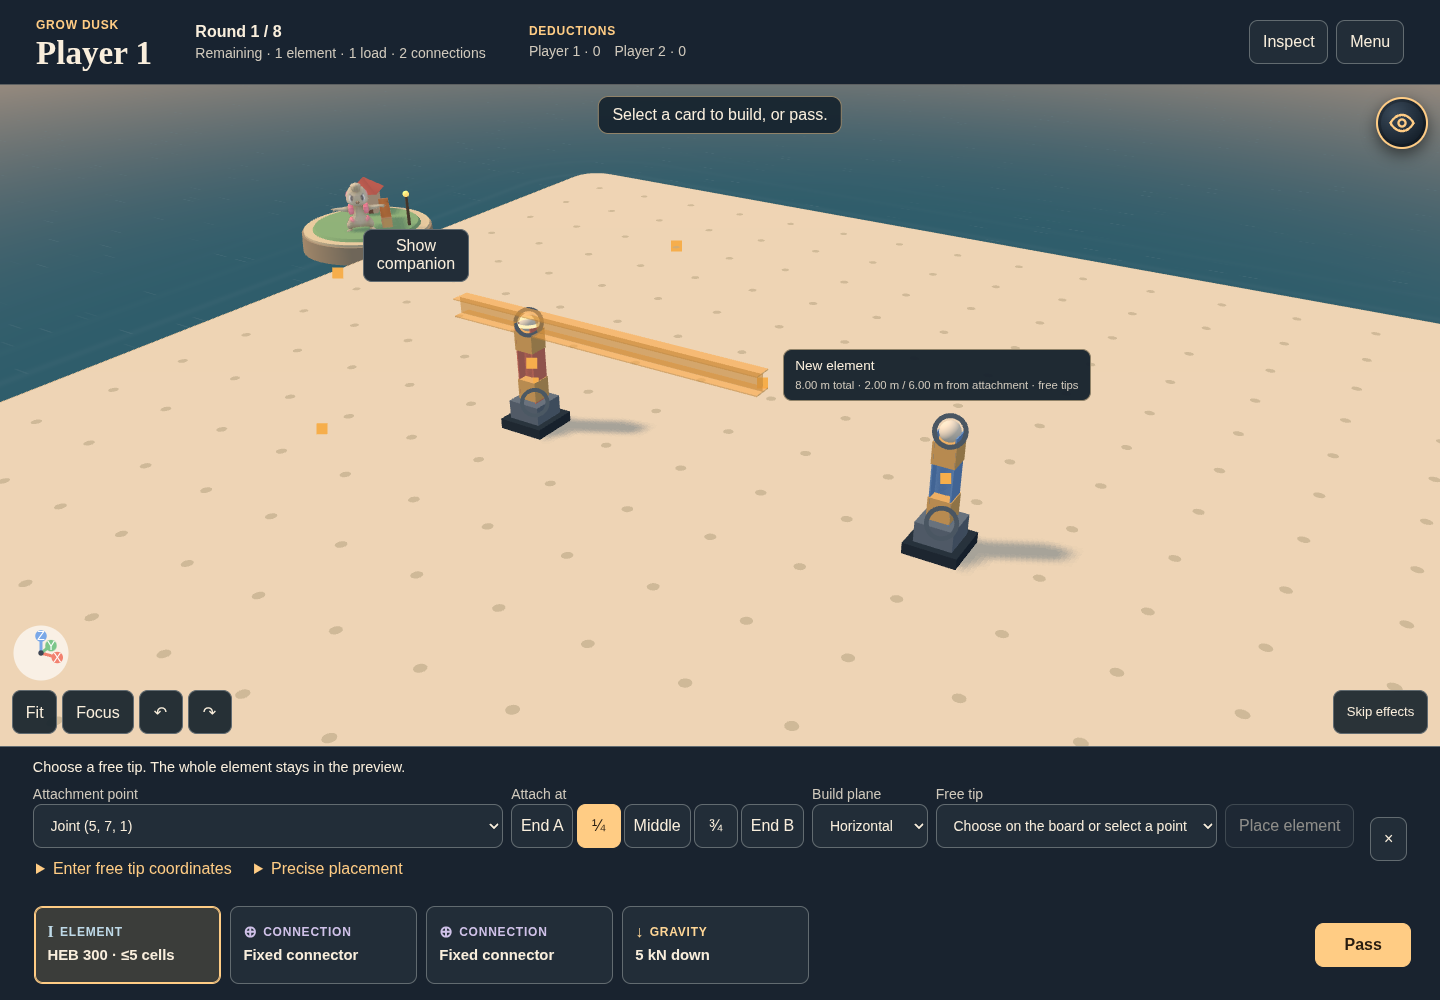
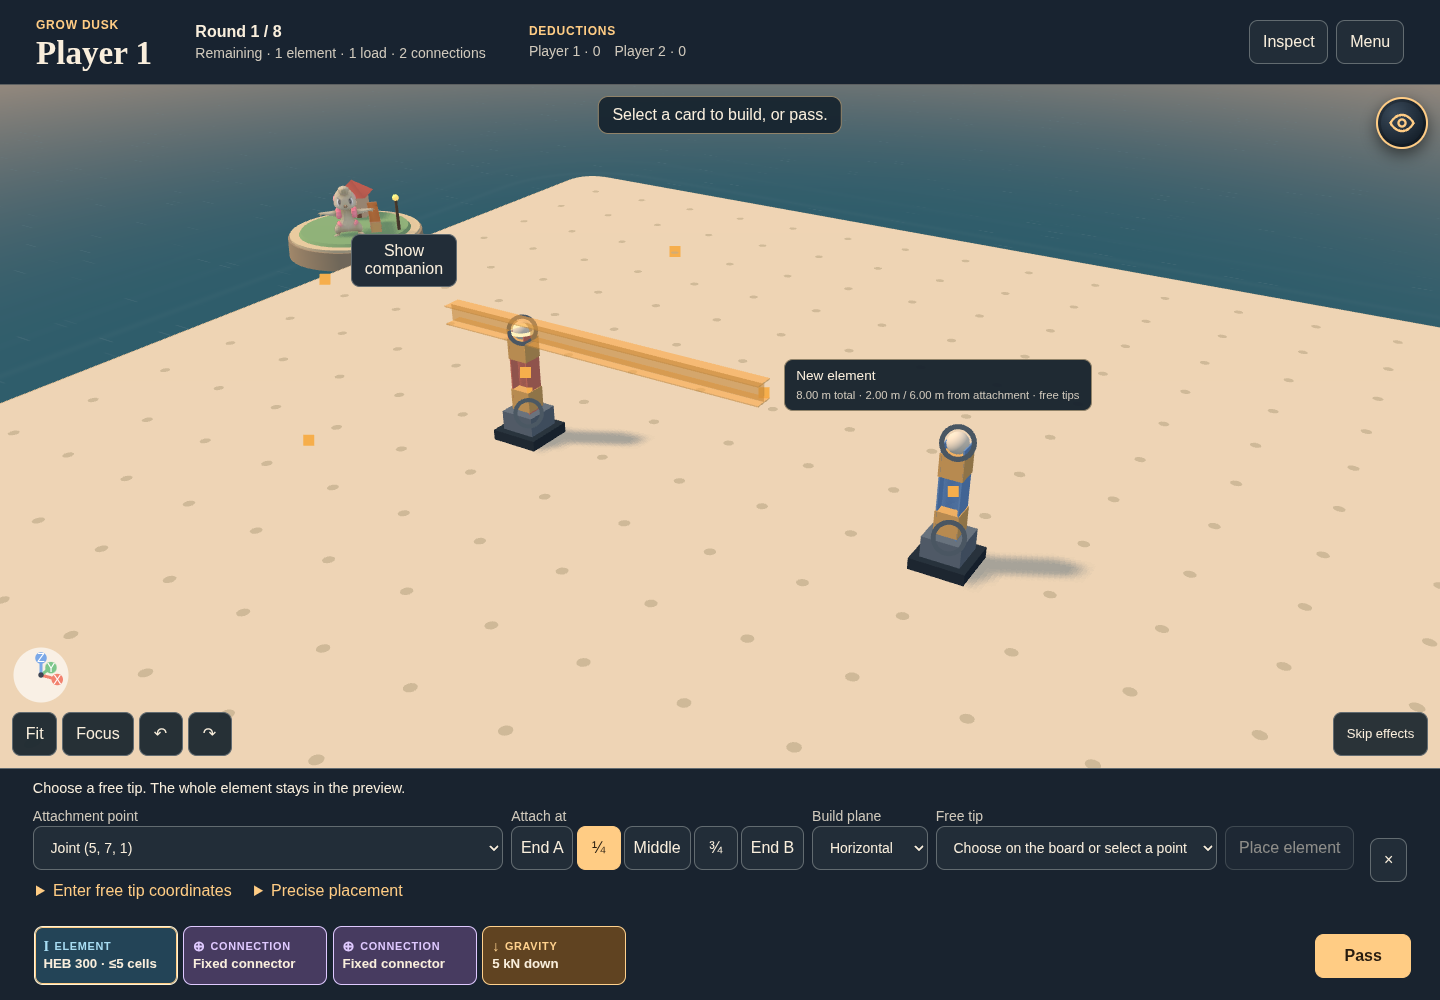
Refresh final main cantilever validation after concurrent updates

diff --git a/docs/evidence/cantilevers/README.md b/docs/evidence/cantilevers/README.md
@@ -1,6 +1,6 @@
 # Fixed interior frame collar evidence
 
-Validated on 2026-11-15 against the integrated source tree recorded on local main at `149efc42dc9e93aead77c2100ddf0e421905662b`. Feature integration `458104c4c0000051467f60a441a0e8234b0d2d6d` combines cantilever feature `fca92ab` with main `cca5702`, preserving the newer Rust-backed evaluator, solver module, companion and View modes. This record identifies local source validation; it does not report a remote push.
+Validated on 2026-11-15 against the final integrated source tree on local main at `6c8b1eab891c41fc9ed26665a085afe25c1367d5`. This retains feature integration `458104c4c0000051467f60a441a0e8234b0d2d6d` and concurrent main `533e1af04ba66d5f80076a184bf4fb05fb915d2f`, preserving the Rust-backed evaluator, solver module, companion, View modes and compact coloured cards. This record identifies local source validation; it does not report a remote push.
 
 Current capacity code/tests live in `evaluator/capacity.ts` and `evaluator/collarCapacity.test.ts`, and the turn-model helper is `toTurnEvaluatorInput`. See [integrated validation](../../kb/development-and-testing.md#cantilever-feature-and-main-integration--2026-11-15) for the combined-source checks.
 
@@ -17,7 +17,7 @@ The [browser runner](../../../scripts/cantilever-browser.mjs) passed all **6 sce
 
 Every scenario staged one frame from `(4,7,1)` to `(8,7,1)`, supported at its original `q1` station over `(5,7,1)`. It checked Unconnected before the explicit Fixed connector action and Attached afterward, exactly one element and one `q1` connection, unchanged draft after reload, a persistent 5 kN load at the free tip, completed End-turn assessment, concealed hands during private handoff, committed geometry and no horizontal page overflow. The runner also rejected unexpected browser exceptions. Non-touch scenarios used a 1440 × 1000 viewport.
 
-The selected screenshot comes from the integrated source at `149efc4`. It shows the production scene's whole-beam preview with the attachment pinned at 25%, a total span of 8 m and overhangs of 2 m / 6 m, alongside main's companion islet and View modes control:
+The selected screenshot comes from the final integrated source at `6c8b1ea`. It shows the production scene's whole-beam preview with the attachment pinned at 25%, a total span of 8 m and overhangs of 2 m / 6 m, alongside main's companion islet, View modes control and compact coloured cards:
 
 ![Whole-element quarter-supported preview](scene-preview.png)
 
@@ -34,7 +34,7 @@ Omit `DOF_BROWSER_EXECUTABLE` to use Playwright's installed Chromium. `DOF_EVIDE
 ## Integrated validation and limits
 
 - TypeScript checking passed.
-- `npm test`: **869 passed, 12 skipped** (881 total), with 100 passed files and 3 skipped files. This includes the main evaluator and presentation changes together with the source-collar rules, exact placement, asymmetric references, connector demand, full match/replay and old-save compatibility suites.
+- `npm test`: **872 passed, 12 skipped** (884 total), with 101 passed files and 3 skipped files (104 total). This includes the main evaluator and presentation changes together with the source-collar rules, exact placement, asymmetric references, connector demand, full match/replay and old-save compatibility suites.
 - The shared solver-contract and web production builds passed on the same integrated source tree. These checks used main's checked-in solver module; the feature-host Cargo limitation below is not a new Rust build result.
 
 These results cover fixed interior sources on continuous frame members. Partial-lock, ball and elastic source collars, and cable/spring/assembly source collars, remain unavailable. Touch emulation is not hardware-touch or screen-reader acceptance. This run does not change the broader [release acceptance ledger](../../kb/criteria-ledger.md).

diff --git a/docs/kb/criteria-ledger.md b/docs/kb/criteria-ledger.md
@@ -19,9 +19,9 @@ status: partial
 
 New `/match` games and the fresh **Shared table · cantilevers** setup use `grow-dusk-release-2`. It reuses the immutable v1 card printings and adds a declared contact and explicitly fitted fixed collar at a continuous frame's original 25%, 50% or 75% source station. The source remains one continuous element; fitting spends one connector and preserves the old receiving-joint connections. Partial-lock, ball, elastic, cable, spring and assembly interior source collars remain unavailable. Existing family-specific end and target-quarter capabilities are unchanged. See [current implementation and limits](cantilever-placement.md).
 
-Integration baselines are cantilever feature `fca92ab` and fetched main `cca5702`. The integration retains main's Rust-backed evaluator, versioned `rust-1` playtest engines, companion motion/islet, View modes, wiki, AI lab and structure-generator work. The feature evidence below predates that integration; it does not substitute for a check of the combined source or establish a new hardware/platform acceptance result.
+Integration baselines are cantilever feature `fca92ab`, fetched main `cca5702` and concurrent main `533e1af`. The integration retains main's Rust-backed evaluator, versioned `rust-1` playtest engines, companion motion/islet, View modes, wiki, AI lab, structure-generator work and compact coloured cards. The feature evidence below predates that integration; it does not substitute for a check of the combined source or establish a new hardware/platform acceptance result.
 
-The combined source, recorded on local main at `149efc4` after feature integration `458104c`, passed TypeScript checking, **869 tests with 12 skipped** (100 passed files, 3 skipped files), and shared-contract/web production builds. All six Chromium scenarios also passed on this integrated source, including draft reload, explicit connector consumption, a 5 kN load and assessed private handoff. [Integrated raw results and screenshot](../evidence/cantilevers/README.md) retain their own provenance; the original feature's browser and test evidence remains separately versioned. This records local integration and validation, not remote publication.
+The final combined source, recorded on local main at `6c8b1ea`, passed TypeScript checking, **872 tests with 12 skipped** (101 passed files, 3 skipped files), and shared-contract/web production builds. All six Chromium scenarios also passed on this source, including draft reload, explicit connector consumption, a 5 kN load and assessed private handoff. [Integrated raw results and screenshot](../evidence/cantilevers/README.md) retain their own provenance; the original feature's browser and test evidence remains separately versioned. This records local integration and validation, not remote publication.
 
 | Scoped check | Recorded evidence |
 | --- | --- |

diff --git a/docs/kb/development-and-testing.md b/docs/kb/development-and-testing.md
@@ -69,9 +69,9 @@ Grow Dusk view modes have Vitest coverage in `viewModes.test.ts` (reducer, exclu
 
 ## Cantilever feature and main integration — 2026-11-15
 
-The integration baselines are cantilever feature `fca92ab` and fetched main `cca5702`. Main's Rust-backed structure evaluator, new-playtest `rust-1` engine selection, legacy replay boundary, companion motion, View modes and other added work are preserved. The records below describe the original feature validation; their counts are not presented as a rerun against the combined source.
+The integration baselines are cantilever feature `fca92ab`, fetched main `cca5702` and concurrent main `533e1af`. Main's Rust-backed structure evaluator, new-playtest `rust-1` engine selection, legacy replay boundary, companion motion, View modes, compact coloured cards and other added work are preserved. The records below describe the original feature validation; their counts are not presented as a rerun against the combined source.
 
-On the combined source recorded on local main at `149efc4` (feature integration `458104c`), `npm run typecheck` passed. The full suite passed **869 tests, with 12 skipped** (881 total), across **100 passed files and 3 skipped files**. Shared solver-contract and web production builds also passed. The browser runner completed **6/6 scenarios** on this integrated tree, covering pointer controls, actual scene picks, precise endpoints, keyboard, touch emulation and unavailable-WebGL fallback, with explicit connector use, exact draft reload, a 5 kN load and assessed private handoff. [Integrated results and screenshot](../evidence/cantilevers/README.md) are separate from the earlier 608-test feature run below. The existing upstream physical-device and assistive-technology gates retain their separate acceptance status. This is a local integration record and does not claim a remote push.
+On the final combined source recorded on local main at `6c8b1ea`, TypeScript checking passed as part of the shared solver-contract and web production builds. The full suite passed **872 tests, with 12 skipped** (884 total), across **101 passed files and 3 skipped files** (104 total). The browser runner completed **6/6 scenarios** on this integrated tree, covering pointer controls, actual scene picks, precise endpoints, keyboard, touch emulation and unavailable-WebGL fallback, with explicit connector use, exact draft reload, a 5 kN load and assessed private handoff. [Integrated results and screenshot](../evidence/cantilevers/README.md) are separate from the earlier 608-test feature run below. The existing upstream physical-device and assistive-technology gates retain their separate acceptance status. This is a local integration record and does not claim a remote push.
 
 | Feature-source check | Result and scope |
 | --- | --- |

diff --git a/docs/kb/cantilever-placement.md b/docs/kb/cantilever-placement.md
@@ -100,7 +100,7 @@ The focused regression suites cover:
 - `cantileverRelease.test.ts`: a genuine dealt v2 quarter-supported 5 kN match through all 16 turns, one card per physical play, unchanged starting fittings, Rust final-score provenance, complete private draft/final replay and v1 private-save preservation.
 - `menu/startPlan.test.ts`: the v2 preset reaches the release board dimensions while Continue retains a historical match.
 
-The [2026-11-15 integrated browser walkthrough](../evidence/cantilevers/README.md) passed **6/6 scenarios** in Chromium 156.0.8078.79 with genuine seed 6: pointer controls, actual scene picking, precise endpoint entry, keyboard input, touch emulation and unavailable-WebGL fallback. Each scenario staged one whole beam and one explicitly chosen `q1` fixed connector, reloaded the exact draft, placed a 5 kN tip load, completed assessment/private handoff, verified the committed geometry and checked horizontal overflow. The combined source recorded on local main at `149efc4` passed TypeScript, **869 tests with 12 skipped**, and shared-contract/web production builds. It preserves main `cca5702`'s evaluator and solver changes. The older feature-only 608-test run and its Cargo limitation remain historical evidence. See [recorded source revisions, raw results and reproduction](../evidence/cantilevers/README.md) and [integration validation](development-and-testing.md#cantilever-feature-and-main-integration--2026-11-15).
+The [2026-11-15 integrated browser walkthrough](../evidence/cantilevers/README.md) passed **6/6 scenarios** in Chromium 156.0.8078.79 with genuine seed 6: pointer controls, actual scene picking, precise endpoint entry, keyboard input, touch emulation and unavailable-WebGL fallback. Each scenario staged one whole beam and one explicitly chosen `q1` fixed connector, reloaded the exact draft, placed a 5 kN tip load, completed assessment/private handoff, verified the committed geometry and checked horizontal overflow. The final combined source recorded on local main at `6c8b1ea` passed TypeScript, **872 tests with 12 skipped**, and shared-contract/web production builds. It preserves main `533e1af` and the earlier evaluator/solver integration. The older feature-only 608-test run and its Cargo limitation remain historical evidence. See [recorded source revisions, raw results and reproduction](../evidence/cantilevers/README.md) and [integration validation](development-and-testing.md#cantilever-feature-and-main-integration--2026-11-15).
 
 These browser results use Linux Chromium and touch emulation. Hardware touch, assistive technology and the broader release matrix remain governed by the [controls criteria](controls-camera-criteria.md) and [release ledger](criteria-ledger.md).
 
